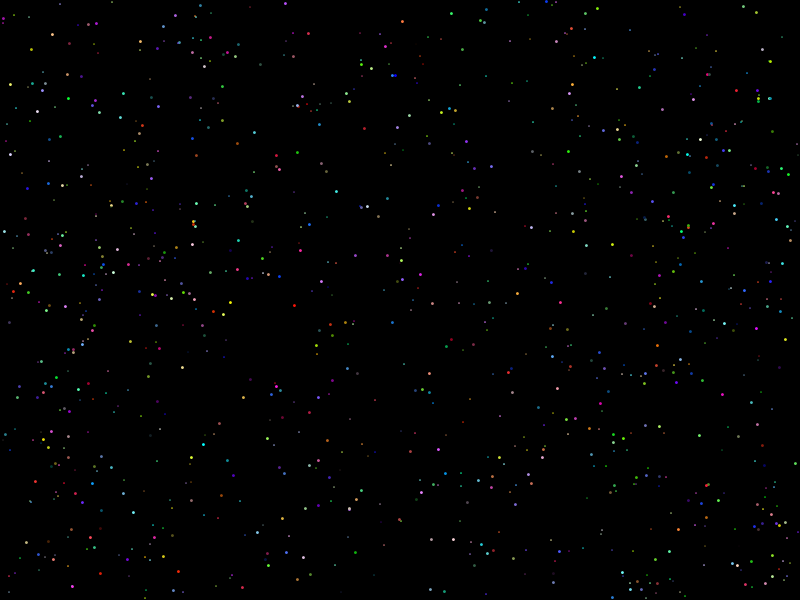
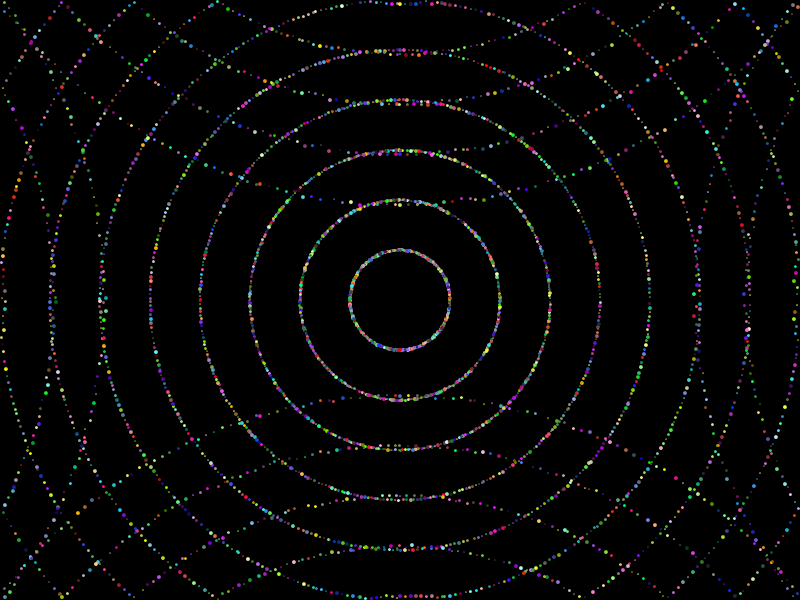
added resize event to game

diff --git a/app/src/main/kotlin/com/sadrasamadi/untitled/Game.kt b/app/src/main/kotlin/com/sadrasamadi/untitled/Game.kt
@@ -5,40 +5,51 @@ import kotlinx.coroutines.delay
 import kotlinx.coroutines.launch
 import kotlinx.coroutines.runBlocking
 import java.awt.*
+import java.awt.event.ComponentAdapter
+import java.awt.event.ComponentEvent
 import java.awt.event.KeyAdapter
 import java.awt.event.KeyEvent
 import javax.swing.JFrame
 import javax.swing.JPanel
 import javax.swing.WindowConstants
 import kotlin.math.abs
+import kotlin.math.cos
+import kotlin.math.roundToInt
+import kotlin.math.sin
 import kotlin.random.Random
 
 fun runGame() = runBlocking {
-  launch {
-    play()
-  }
+  play()
 }
 
 suspend fun play() = coroutineScope {
-  val game = Game()
+  operator fun Int.not() = this.toFloat()
+  val dimension = Dimension(800, 600)
+  val game = Game(!dimension.width, !dimension.height)
   val frame = JFrame()
   frame.apply {
     title = "Untitled"
     defaultCloseOperation = WindowConstants.EXIT_ON_CLOSE
     contentPane = object : JPanel() {
-      override fun paintComponent(g: Graphics?) {
+      override fun paintComponent(g: Graphics) {
         super.paintComponent(g)
         game.render(g as Graphics2D)
       }
     }
-    contentPane.preferredSize = Dimension(Game.WIDTH.toInt(), Game.HEIGHT.toInt())
-    isResizable = false
+    contentPane.apply {
+      preferredSize = dimension
+      pack()
+      addComponentListener(object : ComponentAdapter() {
+        override fun componentResized(e: ComponentEvent) {
+          game.resize(!e.component.width, !e.component.height)
+        }
+      })
+    }
     addKeyListener(object : KeyAdapter() {
-      override fun keyPressed(e: KeyEvent?) {
-        game.handle(e ?: return)
+      override fun keyPressed(e: KeyEvent) {
+        game.handle(e)
       }
     })
-    pack()
     setLocationRelativeTo(null)
   }
   game.setup()
@@ -58,30 +69,21 @@ suspend fun play() = coroutineScope {
 
 data class Vector(var x: Float, var y: Float)
 
-data class Circle(val position: Vector, val speed: Vector, var radius: Float, var color: Color)
+data class Circle(val position: Vector, val velocity: Vector, var radius: Float, var color: Color)
 
-class Game {
-
-  companion object {
-    const val WIDTH = 800.0f
-    const val HEIGHT = 600.0f
-  }
+class Game(private var width: Float, private var height: Float) {
 
   private val circles = mutableListOf<Circle>()
 
   fun setup() {
     val time = System.currentTimeMillis()
     val random = Random(time)
-    for (i in 0..999) {
+    for (i in 0 until 3600) {
+      val r = (i / 360) * 5f + 5f
+      val a = (i % 360) * 1f
       val circle = Circle(
-        Vector(
-          random.nextDouble(0.25 * WIDTH, 0.75 * WIDTH).toFloat(),
-          random.nextDouble(0.25 * HEIGHT, 0.75 * HEIGHT).toFloat()
-        ),
-        Vector(
-          random.nextDouble(-64.0, 64.0).toFloat(),
-          random.nextDouble(-64.0, 64.0).toFloat()
-        ),
+        Vector(width / 2, height / 2),
+        Vector(r * sin(a), r * cos(a)),
         random.nextDouble(1.0, 2.0).toFloat(),
         Color(random.nextInt())
       )
@@ -89,37 +91,50 @@ class Game {
     }
   }
 
+  fun resize(width: Float, height: Float) {
+    this.width = width
+    this.height = height
+    reset()
+  }
+
   fun handle(event: KeyEvent) {
     when (event.keyCode) {
       KeyEvent.VK_SPACE -> circles.removeFirstOrNull()
       KeyEvent.VK_BACK_SPACE -> circles.removeLastOrNull()
+      KeyEvent.VK_ENTER -> reset()
     }
   }
 
   fun render(g2d: Graphics2D) {
+    operator fun Float.not() = this.roundToInt()
     g2d.setRenderingHint(RenderingHints.KEY_ANTIALIASING, RenderingHints.VALUE_ANTIALIAS_ON)
     g2d.color = Color.BLACK
-    g2d.fillRect(0, 0, WIDTH.toInt(), HEIGHT.toInt())
+    g2d.fillRect(0, 0, !width, !height)
     for (circle in circles) {
       g2d.color = circle.color
       g2d.fillOval(
-        (circle.position.x - circle.radius).toInt(),
-        (circle.position.y - circle.radius).toInt(),
-        (2 * circle.radius).toInt(),
-        (2 * circle.radius).toInt()
+        !(circle.position.x - circle.radius),
+        !(circle.position.y - circle.radius),
+        !(2 * circle.radius),
+        !(2 * circle.radius)
       )
     }
   }
 
   fun update(delta: Float) {
     for (circle in circles) {
-      if (abs(circle.position.x + delta * circle.speed.x - WIDTH / 2) > WIDTH / 2 - circle.radius)
-        circle.speed.x *= -1
-      if (abs(circle.position.y + delta * circle.speed.y - HEIGHT / 2) > HEIGHT / 2 - circle.radius)
-        circle.speed.y *= -1
-      circle.position.x += delta * circle.speed.x
-      circle.position.y += delta * circle.speed.y
+      if (abs(circle.position.x + delta * circle.velocity.x - width / 2) > width / 2 - circle.radius)
+        circle.velocity.x *= -1
+      if (abs(circle.position.y + delta * circle.velocity.y - height / 2) > height / 2 - circle.radius)
+        circle.velocity.y *= -1
+      circle.position.x += delta * circle.velocity.x
+      circle.position.y += delta * circle.velocity.y
     }
+  }
+
+  private fun reset() {
+    circles.clear()
+    setup()
   }
 
 }

diff --git a/app/src/main/kotlin/com/sadrasamadi/untitled/Store.kt b/app/src/main/kotlin/com/sadrasamadi/untitled/Store.kt
@@ -9,16 +9,15 @@ fun runStore() {
     }
   }
   store.apply(logger())
-  store.subscribe { println(store.state) }
+  store.subscribe { println("render     : ${store.state}") }
   store.dispatch(Action("increment", 1))
   store.dispatch(Action("increment", 2))
   store.dispatch(Action("increment", 3))
   store.dispatch(Action("decrement", 4))
 }
 
-operator fun String.times(n: Int) = repeat(n)
-
 fun <T> logger(name: String = "default"): Middleware<T> {
+  operator fun String.times(n: Int) = repeat(n)
   return { store, action, next ->
     println("-" * 64)
     println("logger     : $name")
@@ -39,8 +38,6 @@ typealias Middleware<T> = (store: Store<T>, action: Action, next: () -> Unit) ->
 
 typealias Subscriber = () -> Unit
 
-typealias Destroyer = () -> Unit
-
 class Store<T>(initial: T, private val reducer: Reducer<T>) {
 
   var state = initial
@@ -50,12 +47,12 @@ class Store<T>(initial: T, private val reducer: Reducer<T>) {
 
   private val subscribers = mutableListOf<Subscriber>()
 
-  fun apply(middleware: Middleware<T>): Destroyer {
+  fun apply(middleware: Middleware<T>): () -> Unit {
     middlewares.add(middleware)
     return { middlewares.remove(middleware) }
   }
 
-  fun subscribe(subscriber: Subscriber): Destroyer {
+  fun subscribe(subscriber: Subscriber): () -> Unit {
     subscribers.add(subscriber)
     return { subscribers.remove(subscriber) }
   }
